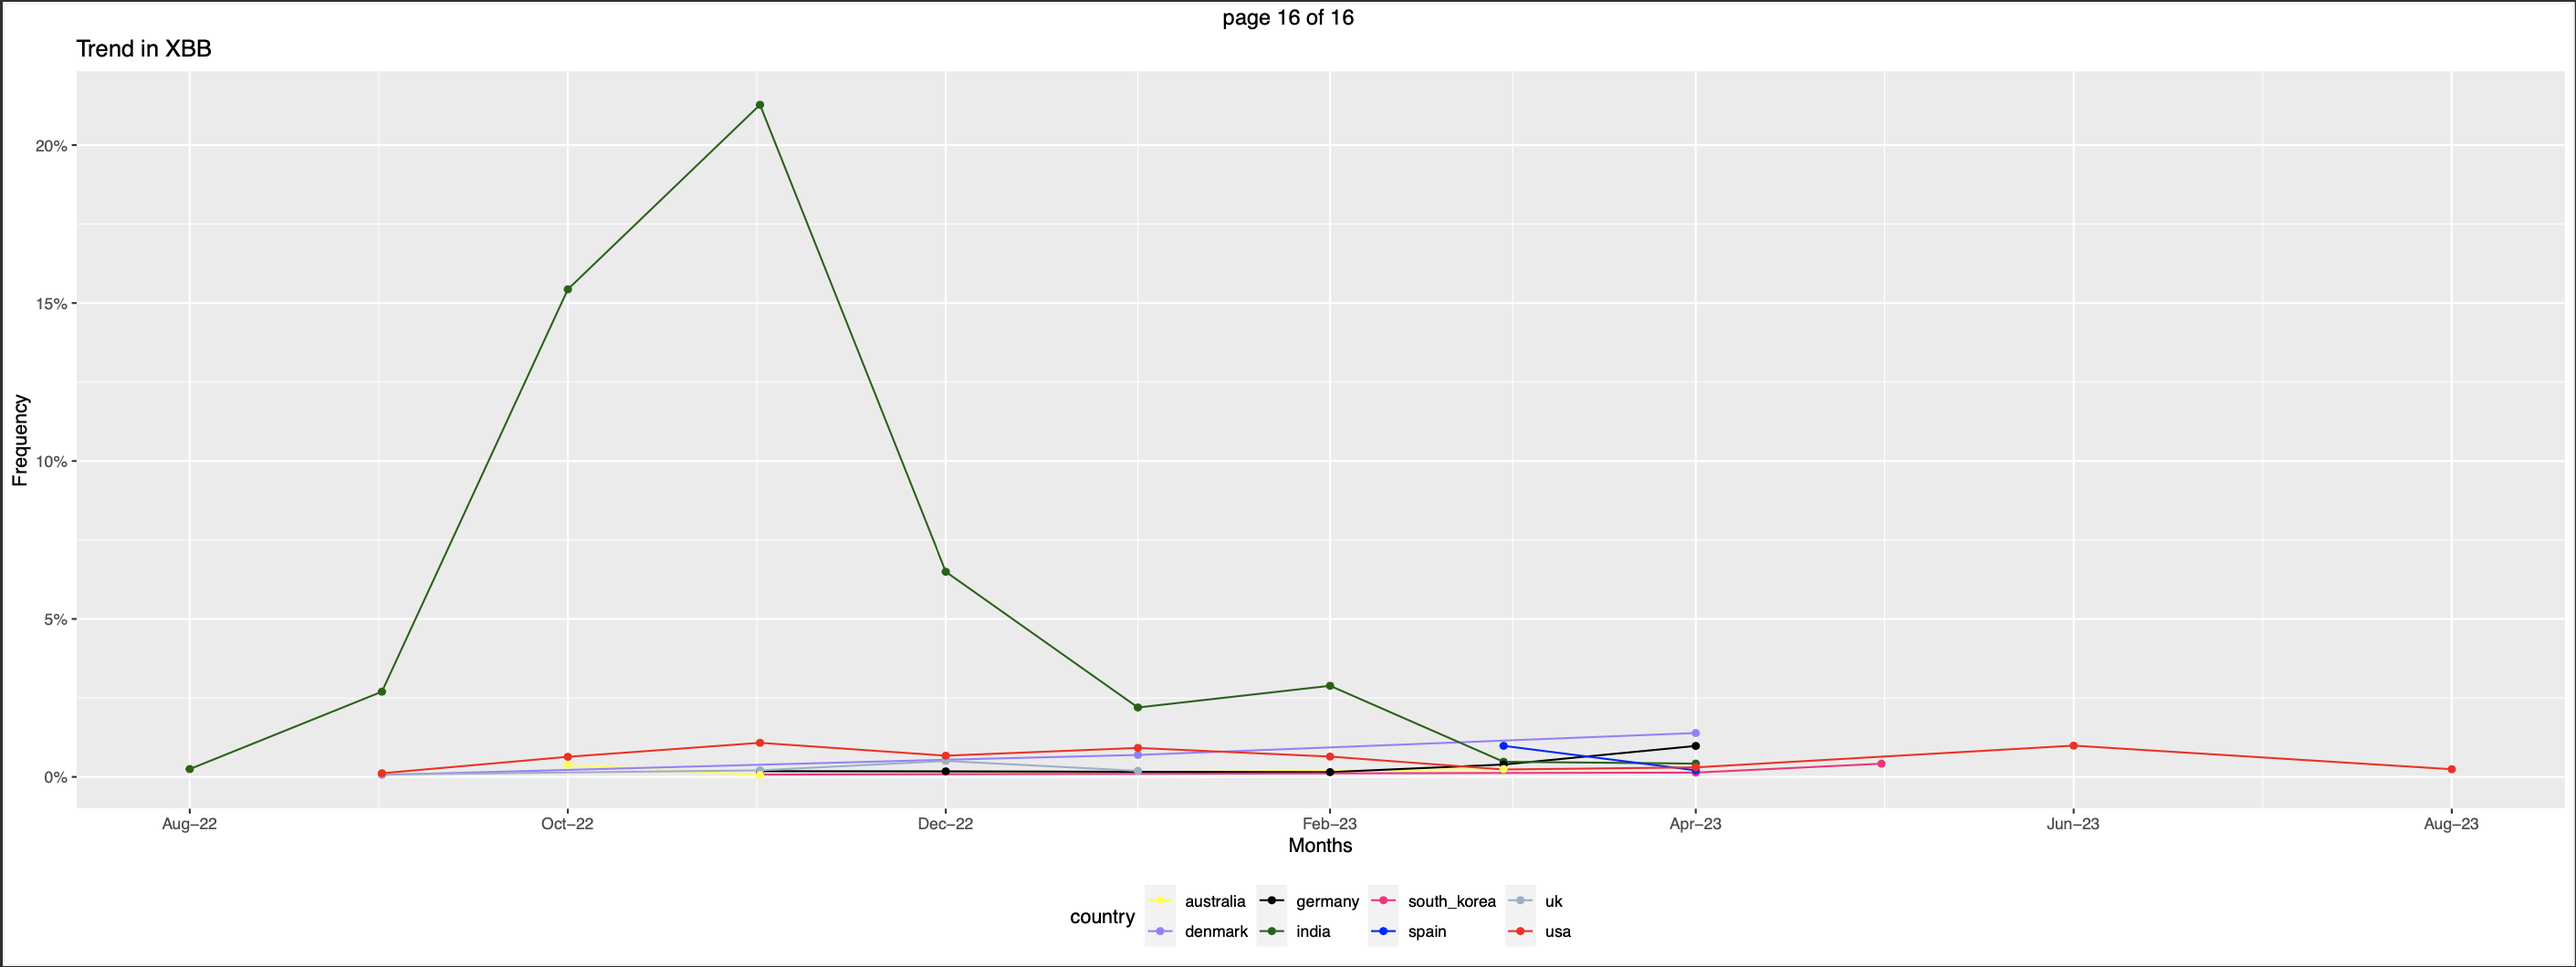
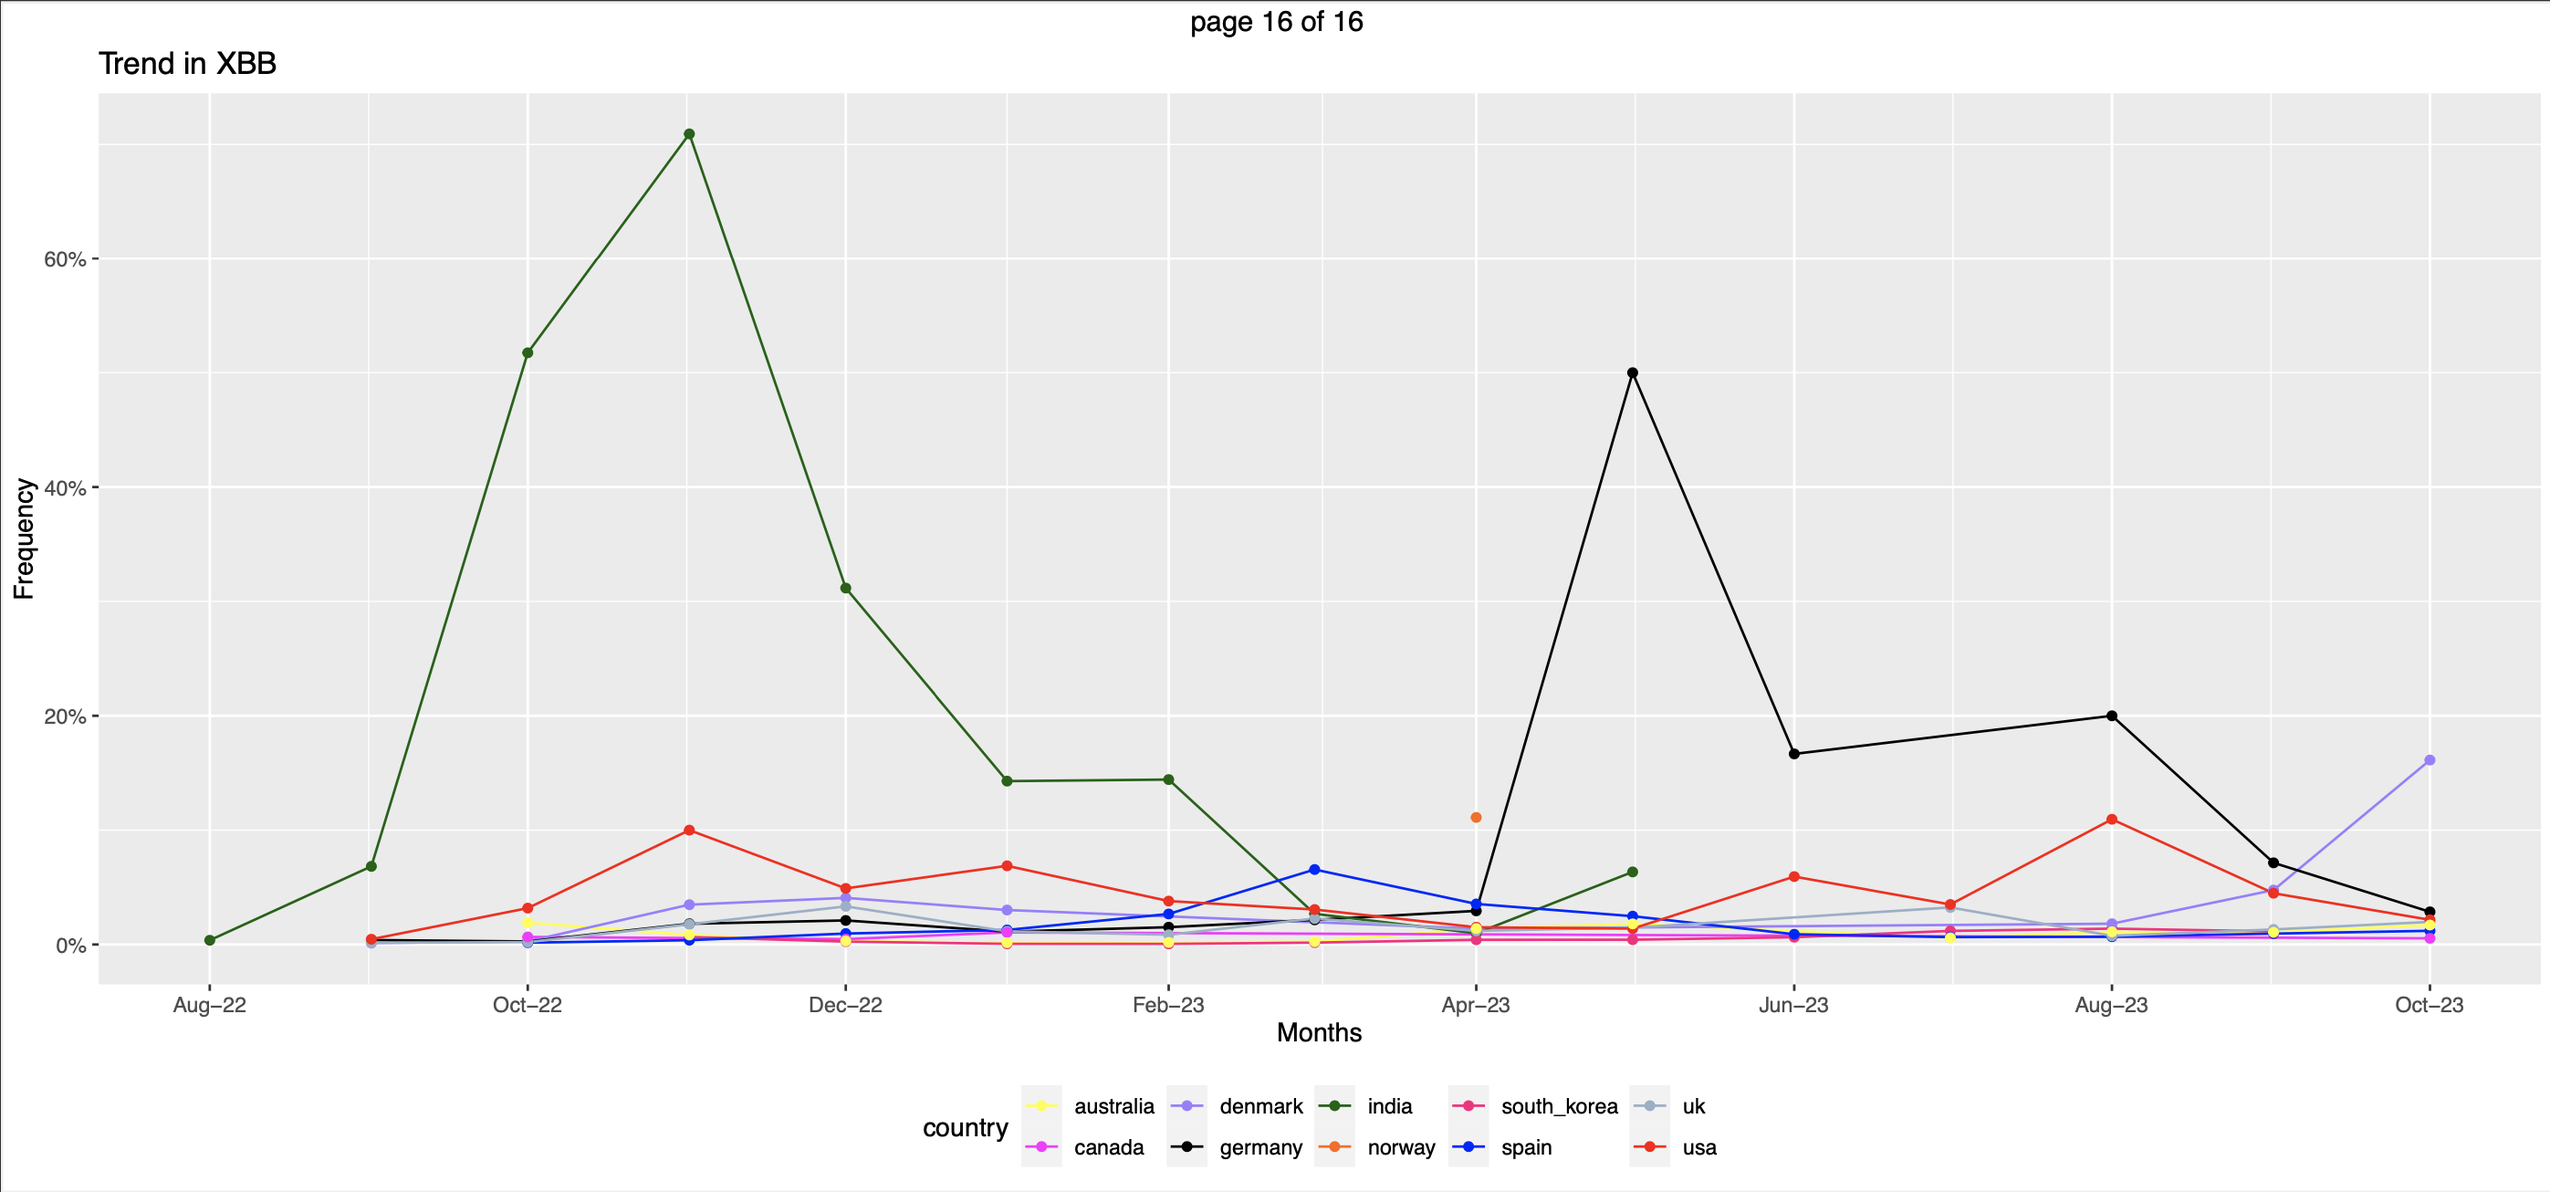
Correcting XBB and including interesting plots from all the lineages

diff --git a/notes/Analysing_variant_trends.md b/notes/Analysing_variant_trends.md
@@ -2,7 +2,7 @@
 id: 1hnn8maoednnxdw5feqd4kq
 title: Analysis of the varient trend plots
 desc: 'This note contains all summary of variant trend analysis'
-updated: 1701890592158
+updated: 1702054329317
 created: 1701882355956
 ---
 
@@ -12,21 +12,19 @@ created: 1701882355956
 
 1. XBB.1.16(omicron):India sees the Spike earlier than the rest of the countries. The lowest frequency in india is higher than peaks of all other countries. ![xbb_1_16](assets/plots/XBB_1_16.png)
 
-2. XBB : India records the highest frequency(21%), while other countries have frequnency less than 2% ![xbb](assets/plots/XBB.png)
+2. XBB : India and Germany  records the high frequencies 70.92%,50% respectively, while other countries have frequnency less than 20% ![xbb](assets/plots/XBB.png)
 
-3. XBB : Not observed in Canada
+3. Norway doesn't have occurances of XBB.1.9.2,XBB.1.16 while other countries has recorded occurances.
 
-4. Norway doesn't have occurances of XBB,XBB.1.9.2,XBB.1.16 while other countries has recorded occurances.
+4. EG.5 is more prevalent in Norway and India for two months straight than in other countries ![EG_5](assets/plots/EG.5.png)
 
-5. EG.5 is more prevalent in Norway and India for two months straight than in other countries ![EG_5](assets/plots/EG.5.png)
+5. XBB.1.9.1,EG.5 : Norway records occurances only for two months and it is highest than frequencies of other countries. No gradual increase or decrease recorded. ![xbb_1_9_1](assets/plots/XBB_1_9_1.png)
 
-6. XBB.1.9.1,EG.5 : Norway records occurances only for two months and it is highest than frequencies of other countries. No gradual increase or decrease recorded. ![xbb_1_9_1](assets/plots/XBB_1_9_1.png)
+6. XBB.1.9.1 : not present in Australia
 
-7. XBB.1.9.1 : not present in Australia
+7. B.1.1.529(Omicron): The Final spike after a downhill trend during the last month of occurance(jun23) in Norway(66.66%) and Germany(16%) can be interesting. ![5_1_1_529](assets/plots/B_1_1_529.png)
 
-8. B.1.1.529(Omicron): The Final spike after a downhill trend during the last month of occurance(jun23) in Norway(66.66%) and Germany(16%) can be interesting. ![5_1_1_529](assets/plots/B_1_1_529.png)
-
-9.  CH.1.1: Norway records high frequencies (61%) compared to other countries. ![CH_1_1](assets/plots/CH_1_1.png)
+8.  CH.1.1: Norway records high frequencies (61%) compared to other countries. ![CH_1_1](assets/plots/CH_1_1.png)
 
 
 
@@ -39,6 +37,14 @@ created: 1701882355956
 ![ba_2_86](assests/../assets/plots/BA_2_86.png)
 
 1. No records of the following variants B.1.429(Epsilon), B.1.525(Eta), B.1.526(Iota), C.37(Lambda), B.1.621(Mu), P.3(Theta), P.2(Zeta), B.1.640 in the 10 chosen countries during Jan22-Oct23.
+
+## Interesting plots of lineages not variant
+
+1. BF.7:  Peaks of Denamrk(58.3%) and Germany(29.2%) are notable because no other country has recorded such frequencies for this lineage. And Norway has no trace of this lineage. ![BF_7](assets/plots/BF_7.png)
+2. BN.1: South Korea had high prevelance of this lineage from Dec22-Mar23 >60%. ![BN_1](assets/plots/BN_1.png)
+3. BR.2: Australia has this lineage from Jan22-Jun23 way before and after it's occurances in other countries. However the frequency of this lineage in Australia during Oct22-Mar23 is unmatched by any of the other country. ![BR_2](assets/plots/BR_2.png)
+4. HW.1: Aaustralia has highest frequency of this lineage in the month of Sept23, while other countries have all their frequncies below 20%.And Norway has no trace of this lineage. ![HW_1](assets/plots/HW_1.png)
+   
 
 ## Summary for Variants
 
@@ -138,9 +144,8 @@ created: 1701882355956
 
 ## XBB(omicron)
 
-+ India has the highest frequency(21%) while other countries have frequnency less than 2%
-+ Not observed in Norway and Canada
-+ Longest trend in USA sep22-Aug23 But the highest frequency recorded is 1%
++ India and Germany  records the high frequencies 70.92%,50% respectively, while other countries have frequnency less than 20%
+
 
 B.1.429(Epsilon), B.1.525(Eta), B.1.526(Iota), C.37(Lambda), B.1.621(Mu), P.3(Theta), P.2(Zeta), B.1.640 No data for these variants.
 
